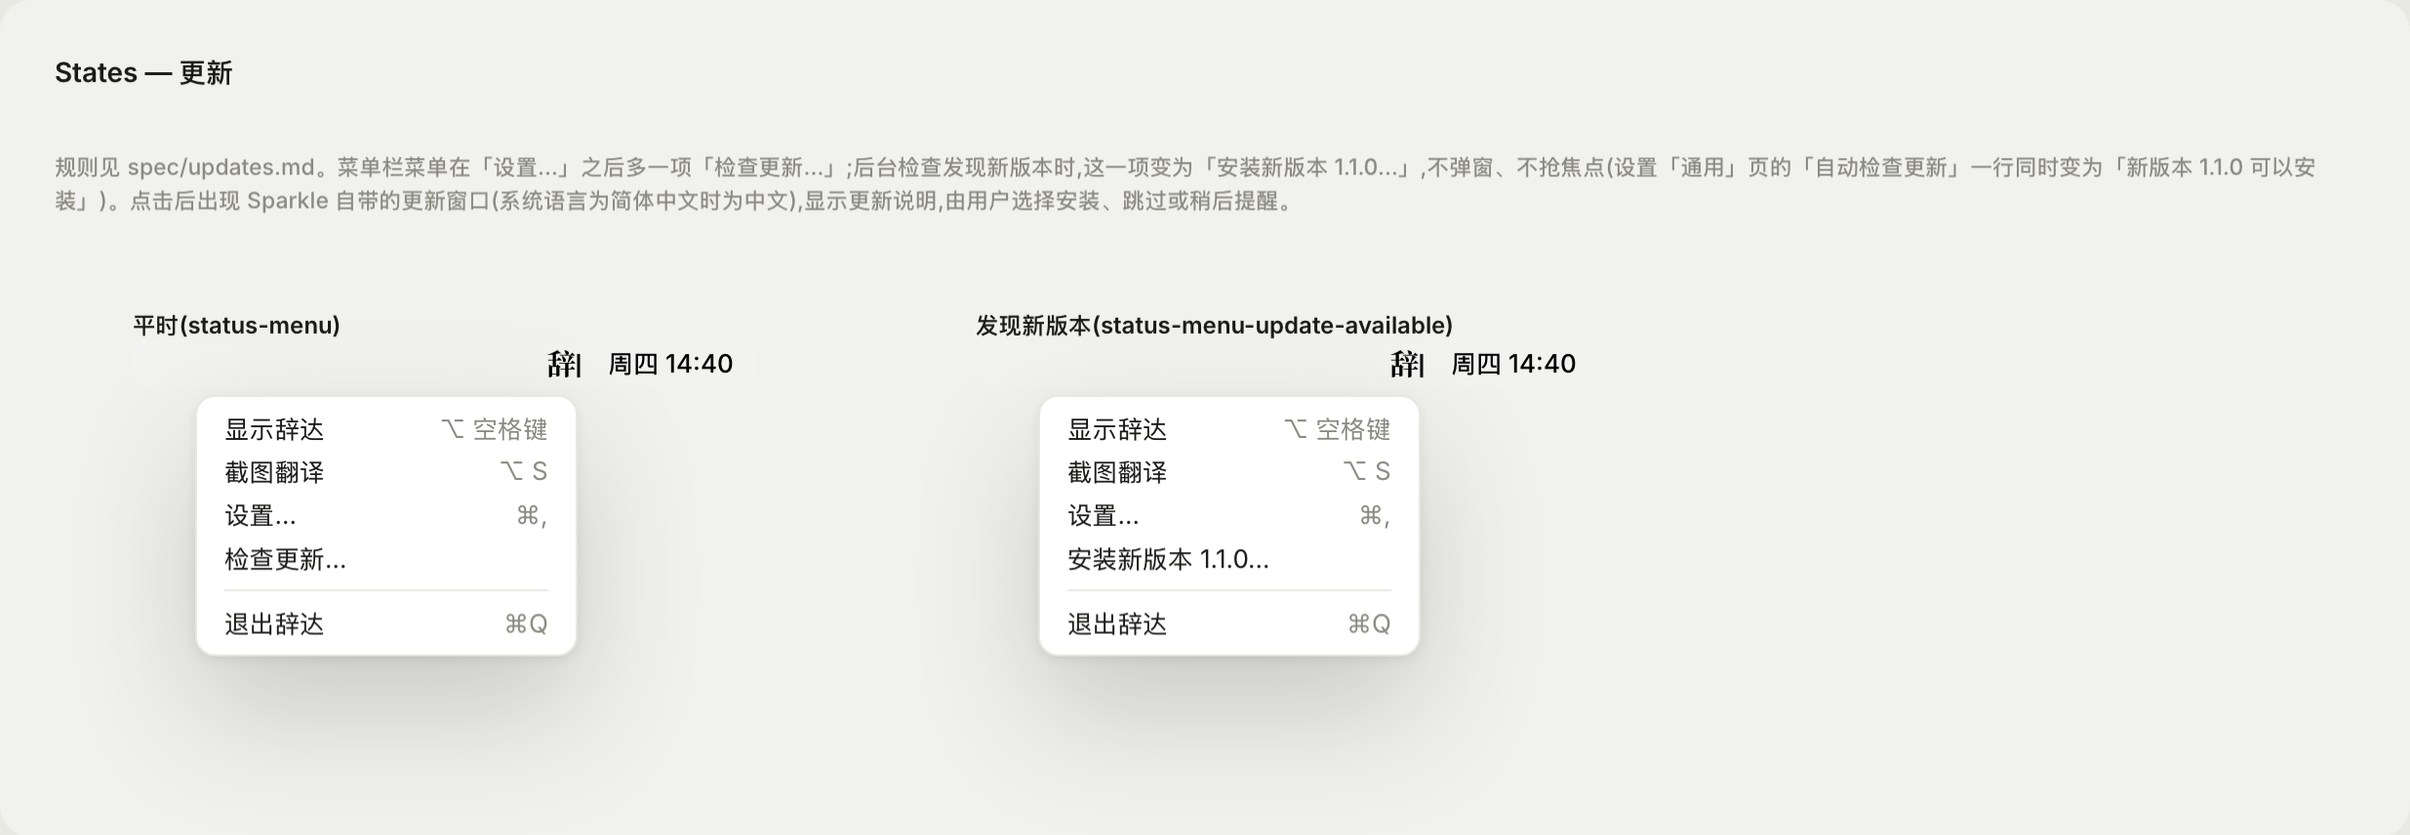
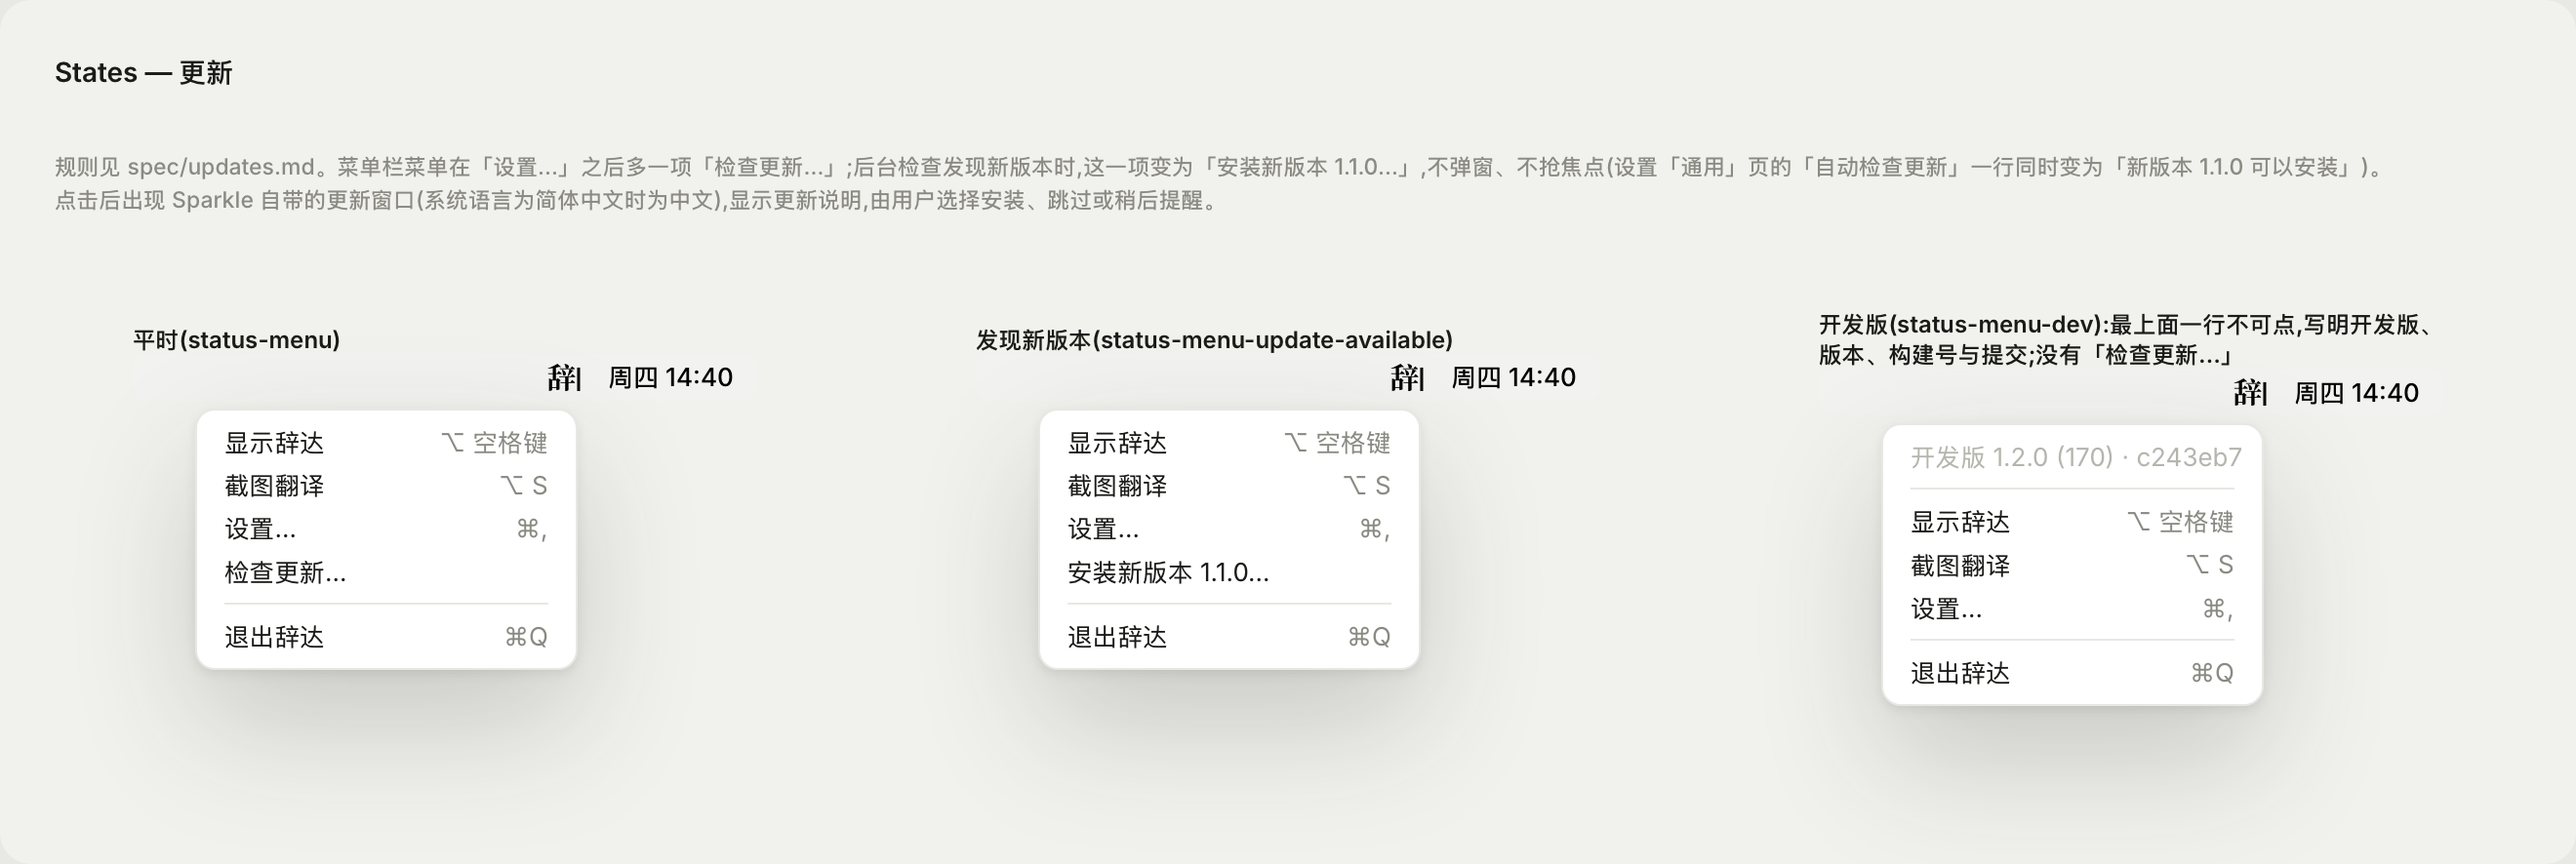
feat: add a development build that runs beside the released Cida (#8)
Local builds used the release bundle id, so trying a change on the Mac
that also runs the released Cida meant faking a higher version (1.99.0)
to keep Sparkle from updating it away, and sharing its settings: the
experiments stayed behind in the release. `CIDA_VARIANT=dev
scripts/build-app.sh` now builds 辞达 Dev as com.xuanwo.Cida.dev, with its
own settings, key and permissions, no update feed, and a version taken
from the checkout the way a release computes it. `scripts/run-dev.sh`
builds it and swaps it with the released Cida, since both register the
same global shortcuts; `run-dev.sh stop` swaps back.

A build that cannot update itself no longer offers update controls, and
a development build names itself at the top of its menu and in the
Settings footer, so it is never mistaken for the release.

diff --git a/Sources/Cida/AppLifecycle.swift b/Sources/Cida/AppLifecycle.swift
@@ -456,6 +456,13 @@ final class CidaAppDelegate: NSObject, NSApplicationDelegate {
     }
     observeGenerationForStatusItem()
     let menu = NSMenu()
+    if let label = CidaBuild.current.developmentLabel {
+      // A development build says so first; it runs beside the released Cida's settings.
+      let development = NSMenuItem(title: label, action: nil, keyEquivalent: "")
+      development.isEnabled = false
+      menu.addItem(development)
+      menu.addItem(.separator())
+    }
     let show = NSMenuItem(title: "显示辞达", action: #selector(showPanel), keyEquivalent: "")
     show.target = self
     menu.addItem(show)
@@ -470,13 +477,15 @@ final class CidaAppDelegate: NSObject, NSApplicationDelegate {
     let settings = NSMenuItem(title: "设置…", action: #selector(showSettings), keyEquivalent: ",")
     settings.target = self
     menu.addItem(settings)
-    let checkForUpdates = NSMenuItem(
-      title: "检查更新…", action: #selector(checkForUpdates), keyEquivalent: "")
-    checkForUpdates.target = self
-    checkForUpdates.setAccessibilityIdentifier("status-menu-check-for-updates")
-    menu.addItem(checkForUpdates)
-    checkForUpdatesMenuItem = checkForUpdates
-    observeAvailableUpdateForMenu()
+    if updater.state.isAvailable {
+      let checkForUpdates = NSMenuItem(
+        title: "检查更新…", action: #selector(checkForUpdates), keyEquivalent: "")
+      checkForUpdates.target = self
+      checkForUpdates.setAccessibilityIdentifier("status-menu-check-for-updates")
+      menu.addItem(checkForUpdates)
+      checkForUpdatesMenuItem = checkForUpdates
+      observeAvailableUpdateForMenu()
+    }
     menu.addItem(.separator())
     let quit = NSMenuItem(title: "退出辞达", action: #selector(quit), keyEquivalent: "q")
     quit.target = self

diff --git a/Design/boards/components.js b/Design/boards/components.js
@@ -206,17 +206,21 @@ class CidaFrozenScreen extends HTMLElement {
 
 customElements.define("cida-frozen-screen", CidaFrozenScreen);
 
-// The menu bar item's menu (spec/updates.md §二): <cida-status-menu update="available">.
+// The menu bar item's menu (spec/updates.md §三): <cida-status-menu update="available"> or
+// <cida-status-menu build="dev">, a development build that names itself and has no updates.
 class CidaStatusMenu extends HTMLElement {
   connectedCallback() {
     const available = this.getAttribute("update") === "available";
+    const development = this.getAttribute("build") === "dev";
     const item = (title, key = "") => `<span class="item"><b>${title}</b><kbd>${key}</kbd></span>`;
+    const updates = development ? "" : available ? item("安装新版本 1.1.0…") : item("检查更新…");
     this.outerHTML = `
       <section class="status-menu-scene" data-state="${this.getAttribute("state")}">
         <div class="menubar"><span class="status-mark"><img src="../../Sources/Cida/Resources/Brand/status-item-glyph.svg" alt="辞达"><img src="../../Sources/Cida/Resources/Brand/status-item-caret.svg" alt=""></span><span>周四 14:40</span></div>
         <div class="status-menu">
+          ${development ? `<span class="item disabled"><b>开发版 1.2.0 (170) · c243eb7</b></span><i class="separator"></i>` : ""}
           ${item("显示辞达", "⌥ 空格键")}${item("截图翻译", "⌥ S")}${item("设置…", "⌘,")}
-          ${available ? item("安装新版本 1.1.0…") : item("检查更新…")}
+          ${updates}
           <i class="separator"></i>
           ${item("退出辞达", "⌘Q")}
         </div>

diff --git a/Sources/Cida/BuildInfo.swift b/Sources/Cida/BuildInfo.swift
@@ -1,0 +1,32 @@
+import Foundation
+
+/// What this copy of Cida is: a release, versioned from its tag, or a development build
+/// (`CIDA_VARIANT=dev scripts/build-app.sh`) that installs beside the release under its own
+/// bundle identifier and never updates itself (`Design/spec/updates.md` §三).
+struct CidaBuild: Equatable {
+  let isDevelopment: Bool
+  let version: String?
+  let buildNumber: String?
+  /// The commit a development build came from, with a trailing + when the checkout had changes.
+  let revision: String?
+
+  init(info: [String: Any]) {
+    isDevelopment = info["CidaBuildVariant"] as? String == "dev"
+    version = info["CFBundleShortVersionString"] as? String
+    buildNumber = info["CFBundleVersion"] as? String
+    revision = info["CidaSourceRevision"] as? String
+  }
+
+  static let current = CidaBuild(info: Bundle.main.infoDictionary ?? [:])
+
+  /// Names a development build where Cida names itself (the menu, the Settings footer), so it
+  /// is never mistaken for the release: 开发版 1.2.0 (170) · c243eb7.
+  var developmentLabel: String? {
+    guard isDevelopment else { return nil }
+    var label = "开发版"
+    if let version { label += " \(version)" }
+    if let buildNumber { label += " (\(buildNumber))" }
+    if let revision { label += " · \(revision)" }
+    return label
+  }
+}

diff --git a/Tests/CidaTests/UpdatesTests.swift b/Tests/CidaTests/UpdatesTests.swift
@@ -26,6 +26,24 @@ final class UpdatesTests: XCTestCase {
     XCTAssertFalse(CidaUpdater.isConfigured(in: .main), "The test runner is not Cida.app")
   }
 
+  /// A development build (`CIDA_VARIANT=dev`) has no feed, so it offers no update controls, and
+  /// it names itself with its version, build and commit wherever Cida names itself.
+  func testADevelopmentBuildNamesItselfAndDoesNotUpdate() throws {
+    let info: [String: Any] = [
+      "CidaBuildVariant": "dev", "CFBundleShortVersionString": "1.2.0", "CFBundleVersion": "170",
+      "CidaSourceRevision": "c243eb7+", "SUPublicEDKey": "key",
+    ]
+    XCTAssertFalse(CidaUpdater(bundle: try makeApp(info: info)).state.isAvailable)
+    XCTAssertEqual(CidaBuild(info: info).developmentLabel, "开发版 1.2.0 (170) · c243eb7+")
+
+    let release: [String: Any] = [
+      "CFBundleShortVersionString": "1.2.0", "SUFeedURL": "https://cida-releases.xuanwo.io/appcast.xml",
+      "SUPublicEDKey": "key",
+    ]
+    XCTAssertTrue(CidaUpdater(bundle: try makeApp(info: release)).state.isAvailable)
+    XCTAssertNil(CidaBuild(info: release).developmentLabel)
+  }
+
   /// An empty `.app` bundle whose Info.plist holds `info`, removed after the test.
   private func makeApp(info: [String: Any]) throws -> Bundle {
     let app = FileManager.default.temporaryDirectory

diff --git a/Sources/Cida/SettingsView.swift b/Sources/Cida/SettingsView.swift
@@ -229,7 +229,9 @@ private struct SettingsBody: View {
       case .general:
         SettingsGroup(isFirst: true) {
           LaunchAtLoginRow(model: model)
-          AutomaticUpdatesRow(updates: updates)
+          if updates.isAvailable {
+            AutomaticUpdatesRow(updates: updates)
+          }
         }
         AboutFooter()
       }
@@ -980,10 +982,10 @@ private struct AutomaticUpdatesRow: View {
 }
 
 private struct AboutFooter: View {
-  /// The bundle's CFBundleShortVersionString; a release build sets it from its tag. Unbundled
-  /// runs (`swift run`) have none and show only the motto.
-  private let version =
-    Bundle.main.object(forInfoDictionaryKey: "CFBundleShortVersionString") as? String
+  /// The bundle's CFBundleShortVersionString; a release build sets it from its tag, and a
+  /// development build names itself. Unbundled runs (`swift run`) have none and show only the
+  /// motto.
+  private let version = CidaBuild.current.developmentLabel ?? CidaBuild.current.version
 
   var body: some View {
     HStack(spacing: 8) {

diff --git a/Sources/Cida/Updates.swift b/Sources/Cida/Updates.swift
@@ -10,6 +10,9 @@ final class UpdateState {
   /// A newer version a scheduled check found while the user was elsewhere; the menu bar item and
   /// Settings offer to install it instead of interrupting with the panel.
   var availableVersion: String?
+  /// Whether this build updates itself. A development build has no feed, so the menu and Settings
+  /// offer no update controls.
+  var isAvailable = true
 
   @ObservationIgnored var performCheck: @MainActor () -> Void = {}
   @ObservationIgnored var applyAutomaticChecks: @MainActor (Bool) -> Void = { _ in }
@@ -72,6 +75,7 @@ final class CidaUpdater: NSObject, SPUUpdaterDelegate {
   init(bundle: Bundle = .main) {
     channel = bundle.object(forInfoDictionaryKey: "CidaUpdateChannel") as? String
     state = UpdateState()
+    state.isAvailable = Self.isConfigured(in: bundle)
     super.init()
   }
 

diff --git a/Design/boards/updates.html b/Design/boards/updates.html
@@ -17,6 +17,8 @@
       <cida-status-menu state="status-menu"></cida-status-menu></figure>
     <figure><div class="state-label">发现新版本(status-menu-update-available)</div>
       <cida-status-menu state="status-menu-update-available" update="available"></cida-status-menu></figure>
+    <figure><div class="state-label">开发版(status-menu-dev):最上面一行不可点,写明开发版、版本、构建号与提交;没有「检查更新…」</div>
+      <cida-status-menu state="status-menu-dev" build="dev"></cida-status-menu></figure>
   </div>
 </main>
 </body>

diff --git a/Design/boards/components.css b/Design/boards/components.css
@@ -763,6 +763,7 @@ body {
 .status-menu .item { display: flex; justify-content: space-between; padding: 3px 9px; border-radius: 5px; }
 .status-menu .item b { font-weight: 400; color: var(--text-primary); }
 .status-menu .item kbd { font-family: var(--font-ui); color: var(--text-secondary); }
+.status-menu .item.disabled b { color: var(--text-tertiary); white-space: nowrap; }
 .status-menu .separator { height: 1px; margin: 5px 9px; background: var(--border); }
 
 /* ---- Translation layer (spec/translation-layer.md) ---------------------

diff --git a/docs/development.md b/docs/development.md
@@ -13,6 +13,15 @@ swift test
 
 `scripts/build-app.sh release` builds the Release app bundle at `build/Cida.app` without launching it. It signs with the first Developer ID Application identity in your keychain (or `CIDA_CODESIGN_IDENTITY`), because the Keychain item that holds the API key is bound to a stable signature. `CIDA_VERSION` and `CIDA_BUILD_NUMBER` set the bundle version; without them it keeps the one in `Resources/Cida-Info.plist`.
 
+To try a change on your own Mac next to the released Cida, run the development build:
+
+```sh
+scripts/run-dev.sh        # build 辞达 Dev, quit the released Cida, start the development build
+scripts/run-dev.sh stop   # quit the development build, start the released Cida again
+```
+
+`CIDA_VARIANT=dev scripts/build-app.sh release`, which the script runs, builds `build/Cida Dev.app`: bundle id `com.xuanwo.Cida.dev`, so its settings, API key and Accessibility and Screen Recording grants are its own and the released Cida keeps updating through Sparkle. It has no update feed, is versioned from the checkout (the latest release tag and the commit count, as a release is) and names itself in its menu and Settings (`Design/spec/updates.md` §三). Grant it the permissions once; they stay across rebuilds because the signature's designated requirement names only the bundle id and the team. Configure its model service once with its own command line, `"build/Cida Dev.app/Contents/MacOS/Cida" config …`. Both builds register the same global shortcuts, which is why only one runs at a time. Do not build the release bundle id with a made-up higher version to keep Sparkle away; that is what the development build replaces.
+
 To hand the app to another Mac, notarize it:
 
 ```sh

diff --git a/Design/spec/updates.md b/Design/spec/updates.md
@@ -20,6 +20,8 @@
 
 显示辞达（⌥ 空格键，由 macOS 按系统语言绘制）· 截图翻译（⌥ S）· 设置…（⌘,）· 检查更新… · 分隔线 · 退出辞达（⌘Q）。快捷键跟随设置里录制的组合。原处翻译（⌥ D）翻译的是指针下的内容，从菜单触发没有对象，所以不在菜单里（`spec/translation-layer.md` §二）。
 
+开发版（`CIDA_VARIANT=dev scripts/build-app.sh` 或 `scripts/run-dev.sh` 构建的「辞达 Dev」）是和正式版并排安装的另一个应用：bundle id `com.xuanwo.Cida.dev`，设置、API Key 与系统权限各自一份，不连更新清单、从不自己更新，版本取仓库最近的正式 tag 与提交数（和发版的算法相同），不用编造的版本号。它的菜单最上面多一行不可点的「开发版 1.2.0 (170) · c243eb7」（提交带 + 表示构建时有未提交的改动），接一条分隔线；没有「检查更新…」。设置「通用」页的页脚同样写这一行，没有「自动检查更新」。两个版本注册同样的全局快捷键，同一时间只运行一个：`scripts/run-dev.sh` 先退出正式版再启动开发版，`scripts/run-dev.sh stop` 反过来。之前在本机用正式版的 bundle id 装开发构建时，只能编一个更高的版本号（如 1.99.0）挡住更新，而且开发时的实验设置会留在正式版里。
+
 ## 四、保留
 
 - 更新清单里正式版与候选版本各保留最新两个构建；每次发布新版本后，清单不再列出的版本连同它的 zip 与 DMG 从 R2 删除。保留两个，是为了让已经发现上一个版本、尚未安装的用户仍能下载到它。

diff --git a/Design/spec/settings.md b/Design/spec/settings.md
@@ -66,7 +66,7 @@
 一组，没有组标题，下面是页脚。
 
 - 开机启动：开关（accent 开 / `toggle-off` 关，系统 small 尺寸），失败时系统警告框说明。
-- 自动检查更新：说明「每天检查一次」；右侧「检查更新」边框按钮（同「编辑」）+ 开关（默认开），间距 12。后台检查发现新版本时，说明变为「新版本 <版本> 可以安装」，按钮变为「安装…」。行为见 `spec/updates.md`。通道随安装包决定，没有「测试版」开关。
+- 自动检查更新：说明「每天检查一次」；右侧「检查更新」边框按钮（同「编辑」）+ 开关（默认开），间距 12。后台检查发现新版本时，说明变为「新版本 <版本> 可以安装」，按钮变为「安装…」。行为见 `spec/updates.md`。通道随安装包决定，没有「测试版」开关。不能自己更新的构建（开发版，`spec/updates.md` §三）没有这一行，页脚写「开发版 <版本> (<构建号>) · <提交>」。
 - 页脚居中，距上一行 26：字标（见 `spec/brand.md` §四）+「<版本> · 辞达而已矣」（caption，`text-tertiary`），间距 8。版本取应用包的 `CFBundleShortVersionString`（发版时由 tag 决定，默认 1.0）；未打包运行时只显示「辞达而已矣」。
 
 ## 七、强调色

diff --git a/AGENTS.md b/AGENTS.md
@@ -37,6 +37,7 @@ A pull request that changes the UI without screenshots is not ready for review.
 - `swift build -Xswiftc -warnings-as-errors` and `swift test` must pass for every change; the CI workflow runs both on each pull request.
 - Changes to the panel, Settings, shortcuts, selection import, capture or streaming run the affected XCUI journey in Tart: `CIDA_TART_DIAGNOSTIC_MODE=1 CIDA_UI_TEST_ONLY_TESTING=<Suite/test> scripts/test-ui-in-tart.sh`.
 - Release decisions use the gates, from a clean committed checkout: `scripts/e2e/run-pr-gate.sh`, `run-nightly-gate.sh`, `run-release-gate.sh`.
+- To use a change on your own Mac, run `scripts/run-dev.sh`: it builds 辞达 Dev (`com.xuanwo.Cida.dev`) beside the released Cida instead of replacing it (`docs/development.md`).
 - Never drive the host's screen for testing: no synthetic mouse or keyboard events, no screen recording of the live desktop, no test instance that activates windows. Use the offscreen captures or Tart.
 - A new `InteractionReproductionTests` case must match one of the name shards in `scripts/run-vm-ui-tests-in-guest.sh`, or the guest run fails.
 
